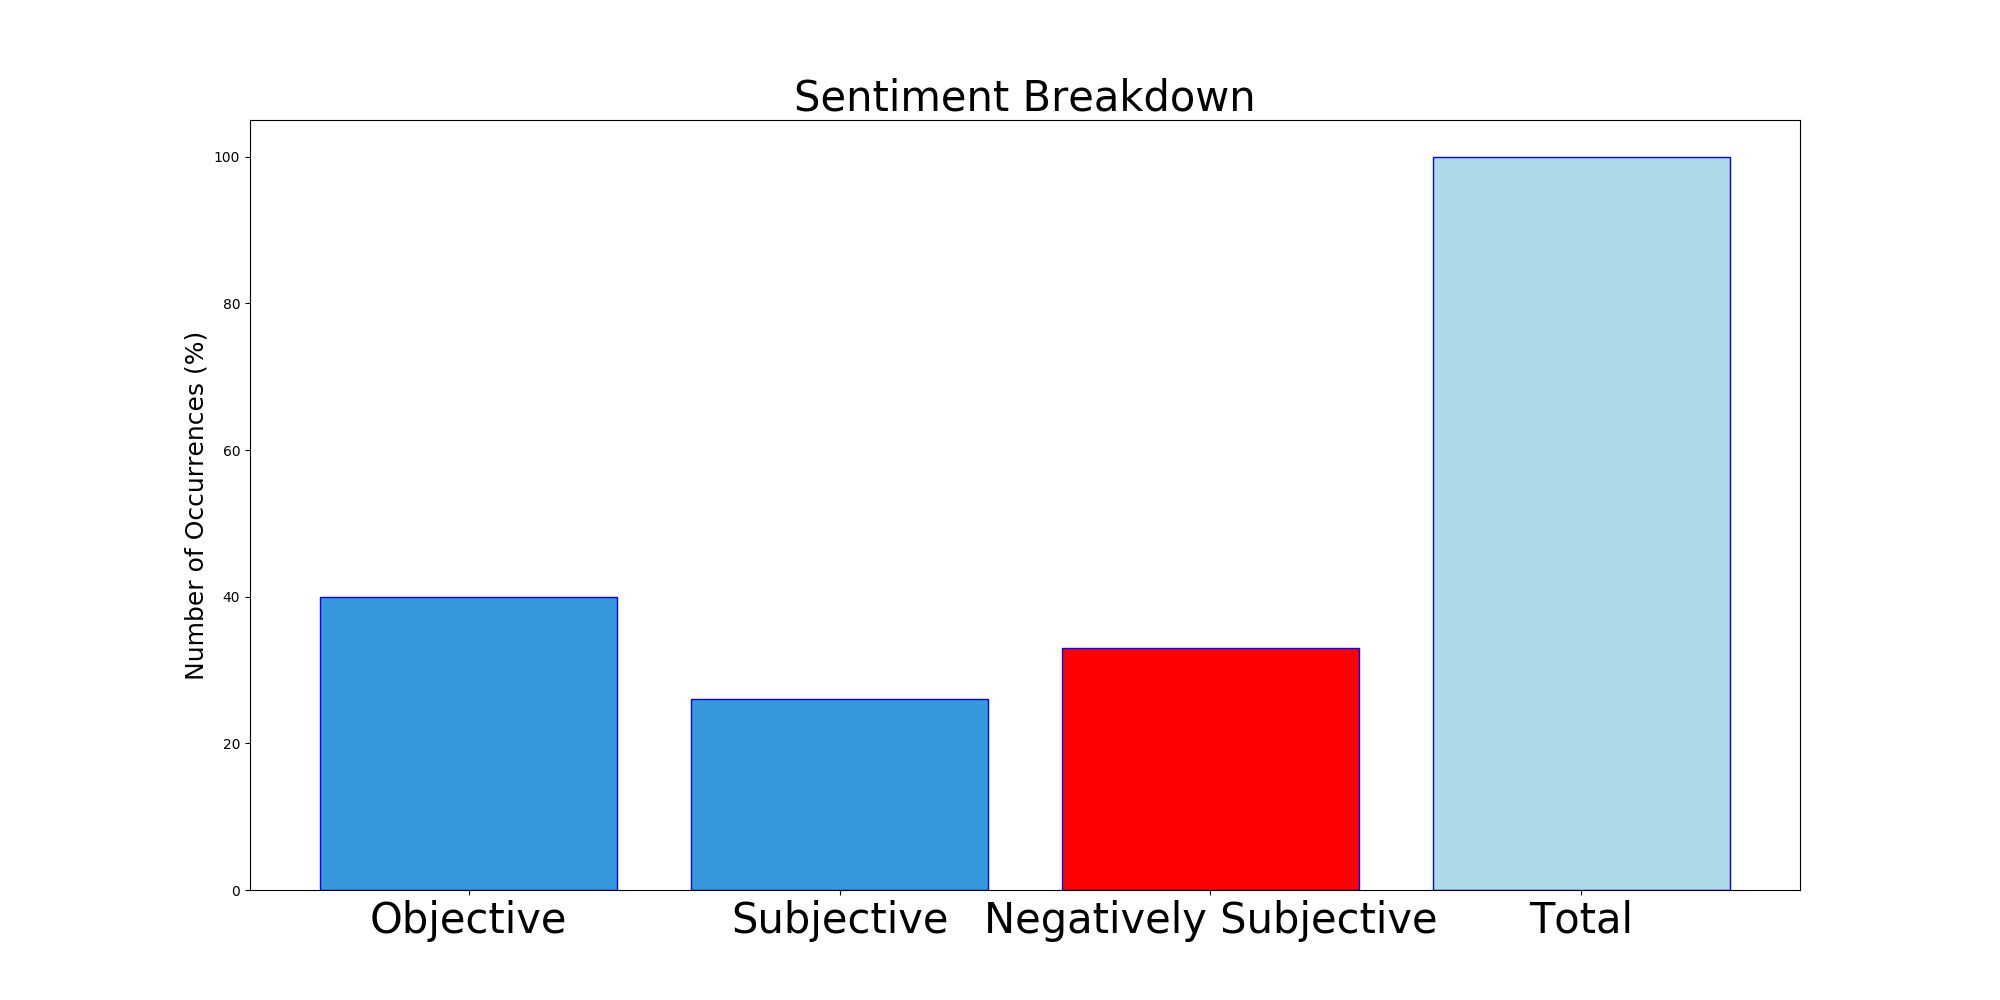
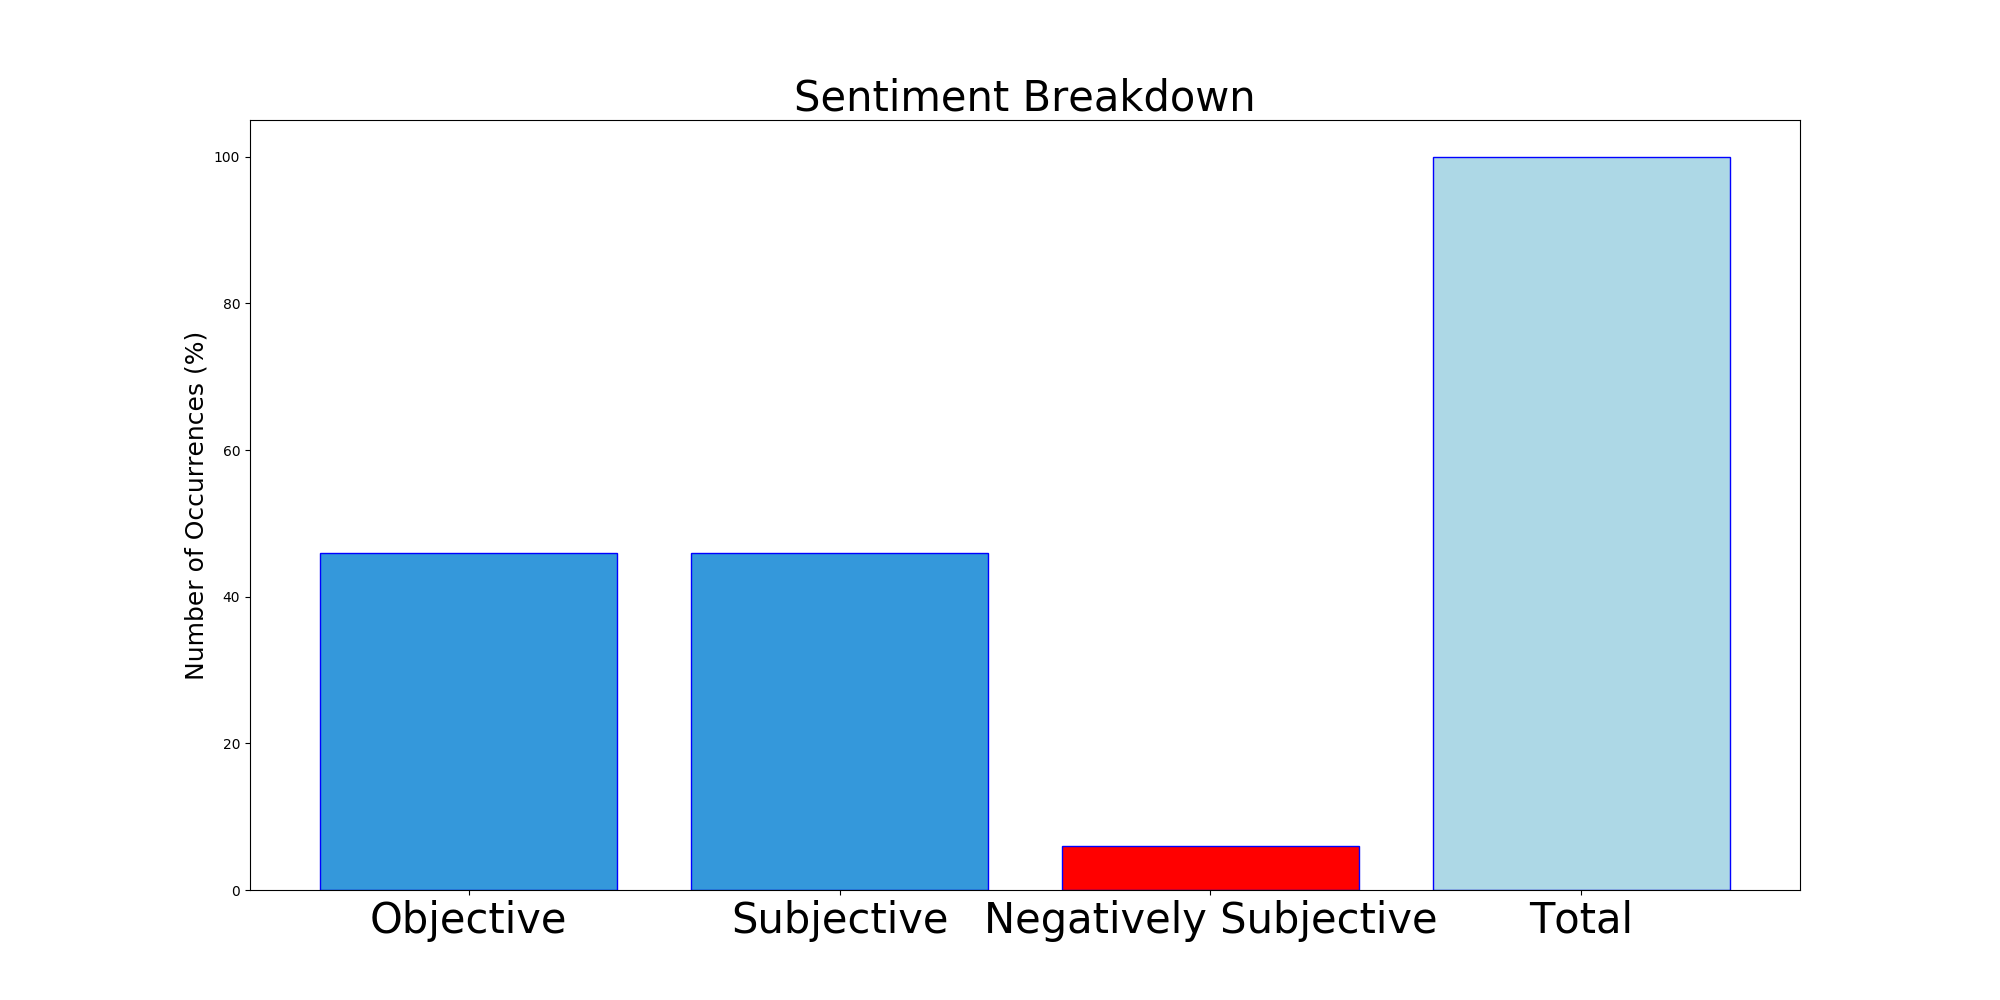
Updating with latest report

Changed region(s): [[0.527, 0.62, 0.682, 0.868], [0.341, 0.527, 0.496, 0.713], [0.155, 0.527, 0.31, 0.62]]

diff --git a/README.md b/README.md
@@ -1,5 +1,5 @@
 # MURCHIE85 TWITTER PROCESSING 
-&#x1F34E; **TOPIC = "POTUS"**
+&#x1F34E; **TOPIC = "TheEllenShow"**
 
 ## AUTOMATED RESEARCH SUMMARY
 
@@ -15,18 +15,18 @@
 
 |                **Sample-Tweets**        |
 | :-------------: |
-| <div class="alert alert-block alert-warning">@amyklobuchar It's time to call it quits for your run for potus. Do it for your country, please. We won't forget you</div> <div class="alert alert-block alert-success">RT @WhiteHouse: As a candidate, @realDonaldTrump promised to help solve the water crisis that was crippling American farmers due to chronic…</div> <div class="alert alert-block alert-info">RT @ernie_plumley: Hey [BO], aka [Barry], your sick ideology will not happen. The government does not own us nor control us since @POTUS Tr…</div> |
-The most popular user is: **MarkChavezTX**
-<div class="alert alert-block alert-danger"> RT @AlexWardVox: I asked a senior White House official if Trump really removed Maguire over the Russia briefing. Official didn’t mince word…</div>
+| <div class="alert alert-block alert-warning">RT @TheEllenShow: The entire internet is doing a dance called The Renegade, and the 14-year-old who invented it is here today. Please welco…</div> <div class="alert alert-block alert-success">RT @TheEllenShow: We’re back! #FriendsReunion https://t.co/kzUrMsACMe</div> <div class="alert alert-block alert-info">@TheEllenShow Girl power https://t.co/EgKN7rA57A</div> |
+The most popular user is: **jesscrumpetcake**
+<div class="alert alert-block alert-danger"> RT @TheEllenShow: We’re back! #FriendsReunion https://t.co/kzUrMsACMe</div>
 
 ## RELATED METRICS<br>
 | Metric | Value |
 | ------------- | ------------- |
-| #1 Most tweeted to  | **POTUS** |
-| #2 Most tweeted to  | **realDonaldTrump** |
-| #3 Most tweeted to  | **WhiteHouse** |
-| NewProfiles (less than 10 days) | 0.0%  |
-| Tweeters with < 10 followers  | 3.0%|
+| #1 Most tweeted to  | **TheEllenShow** |
+| #2 Most tweeted to  | **Diddy** |
+| #3 Most tweeted to  | **Oprah** |
+| NewProfiles (less than 10 days) | 3.0%  |
+| Tweeters with < 10 followers  | 11.0%|
 | Tweeters with > 1000000 followers  | 0.0%  |
 
 
@@ -36,28 +36,28 @@ The most popular user is: **MarkChavezTX**
 
 | Popularity Rank  | Term |
 | ------------- | ------------- |
-| first  | **@POTUS**  |
-| second  | **@REALDONALDTRUMP**  |
-| third  | **POTUS** |
-| fourth  | **CANDIDATE**  |
-| fifth  | **HELP**  |
+| first  | **@THEELLENSHOW:**  |
+| second  | **@THEELLENSHOW**  |
+| third  | **WE’RE** |
+| fourth  | **BACK!**  |
+| fifth  | **FRIENDSREUNION**  |
 
 
 ## Twitter Bio Analysis![image](BIO.png)
 ### SENTIMENT ANALYSIS
 ![image](sentiment.png)
-VIEWS WERE : **SUBJECTIVE**  (26.67%) & **NEGATIVELY-SUBJECTIVE** (33.33%) **OBJECTIVE** (40.0%)
+VIEWS WERE : **SUBJECTIVE**  (46.67%) & **NEGATIVELY-SUBJECTIVE** (6.67%) **OBJECTIVE** (46.67%)
 
 ### TWEET SAMPLE 
 Random value picked from array: 
 
-<div class="alert alert-block alert-info">@amyklobuchar It's time to call it quits for your run for potus. Do it for your country, please. We won't forget you</div>
+<div class="alert alert-block alert-info">RT @TheEllenShow: The entire internet is doing a dance called The Renegade, and the 14-year-old who invented it is here today. Please welco…</div>
 
 ### MOST RETWEETED 
 
-The most retweeted user is: **MarkChavezTX**
+The most retweeted user is: **jesscrumpetcake**
 
-<div class="alert alert-block alert-danger"> RT @AlexWardVox: I asked a senior White House official if Trump really removed Maguire over the Russia briefing. Official didn’t mince word…</div>
+<div class="alert alert-block alert-danger"> RT @TheEllenShow: We’re back! #FriendsReunion https://t.co/kzUrMsACMe</div>
 
 ### CONCLUSION & EXTERNAL ANALYSIS
 
